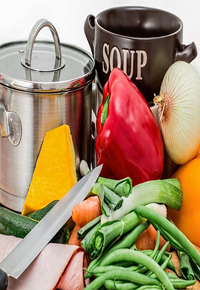
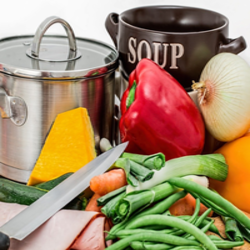
modif navbar + add footer

diff --git a/public/Css/navbar.css b/public/Css/navbar.css
@@ -1,16 +1,15 @@
-/* navbar-fixed-left */
 #navbar-custom{
-    background-color: #B5FFA0;
+    background-color: darkcyan;
+    padding-top: 8px;
 }
 a {
-    color: #489533;
     font-size: 17px;
 }
 a:hover{
     color: rgb(80, 80, 80);
 }
 #logo{
-    font-size: 45px;
+    font-size: 25px;
     padding-left: 28px;
 }
 
@@ -21,97 +20,14 @@ a:hover{
 .dropdown-item{
     font-size: 14px;
 }
-@media (max-width: 767px) {
-    .navbar-text {
-      margin-top: 15px;
-      margin-bottom: 15px;
-      padding-right: 15px;
-      padding-left: 15px;
-    }
-  }
-  
-  .navbar-fixed-left {
-      padding-top: 10px;
-      width: 260px;
-      position: fixed;
-      border-radius: 0;
-      height: 100%;
-      z-index: 1029;
-  }
-  
-  .navbar-fixed-left .navbar-nav {
-      float: left;
-      margin: 0;
-  }
-  
-  .navbar-fixed-left .navbar-nav > li {
-      float: none; 
-      width: 159px;
-  }
-  
-  .navbar-fixed-left .navbar-nav > li > a {
-      padding-top: 10px;
-      padding-bottom: 10px;
-      line-height: 20px;
-  } 
-  
-  .navbar-fixed-left .navbar-nav .open .dropdown-menu {
-      position: absolute;
-      float: left;
-      background-color: #fff;
-      min-width: 160px;
-      border: 1px solid #ccc;
-      border: 1px solid rgba(0, 0, 0, .15);
-      border-width: 0 1px 1px;
-      border-radius: 0 0 4px 4px;
-      -webkit-box-shadow: 0 6px 12px rgba(0, 0, 0, .175);
-              box-shadow: 0 6px 12px rgba(0, 0, 0, .175);
-  }
-  
-  /* set default padding container */
-  .navbar-fixed-left + .container,
-  .navbar-fixed-left + .container-fluid {
-      padding-left: 80px;
-  }
-  .app-main-content {
-      padding-top: 0px;
-      margin-left: 250px;
-      padding-top: 25px;
-  }
-  @media (max-width: 767px) {
-      .navbar-fixed-left {
-          width: 60px;
-      }
-  
-      .navbar-fixed-left + .container,
-      .navbar-fixed-left + .container-fluid {
-          padding-left: 80px;
-      }
-      .navbar-fixed-left .navbar-nav > li {
-          width: 59px;
-      }
-      .navbar-fixed-left .navbar-nav > li > .dropdown-menu {
-          margin-top: -30px;
-          margin-left: 50px;
-      }
-  }
 
-  /* navbar-fixed dropdown */
-  
-  @media (max-width: 767px) {
-    .navbar-fixed-left .navbar-nav .open .dropdown-menu > li > a {
-      color: #333;
-    }
-    .navbar-fixed-left .navbar-nav .open .dropdown-menu > li > a:hover,
-    .navbar-fixed-left .navbar-nav .open .dropdown-menu > li > a:focus {
-      color: #262626;
-      background-color: #f5f5f5;
-    }
-    .navbar-fixed-left .navbar-nav .open .dropdown-menu > .active > a,
-    .navbar-fixed-left .navbar-nav .open .dropdown-menu > .active > a:hover,
-    .navbar-fixed-left .navbar-nav .open .dropdown-menu > .active > a:focus {
-      color: #fff;
-      background-color: #337ab7;
-    }
-  
-  }
+.search{
+    color: black;
+    border-color: black;
+}
+
+.search:hover{
+    color: white;
+    border-color: black;
+    background-color: teal;
+}

diff --git a/public/Css/home.css b/public/Css/home.css
@@ -1,13 +1,12 @@
 img {
-    width: 200px;
-    height: 290px;
+    width: 250px;
+    height: 250px;
     border-radius: 5px 5px 0 0;
-
 }
 
 img:hover {
-    width: 240px;
-    height: 350px;
+    width: 290px;
+    height: 290px;
 }
 
 .card {
@@ -15,16 +14,16 @@ img:hover {
     transition: 0.3s;
     border-radius: 5px;
     display: inline-block;
-    width: 21%;
+    width: 25%;
     text-align: center;
 }
 
 .card:hover {
     box-shadow: 0 8px 16px 0 rgba(0, 0, 0, 0.2);
     display: inline-block;
-    width: 25%;
+    width: 30%;
 }
 
-.container {
-    padding: 2px 16px;
+.container{
+    text-align: center;
 }

diff --git a/public/Css/footer.css b/public/Css/footer.css
@@ -1,0 +1,17 @@
+.footer{
+    background-color: darkcyan;
+    margin-top: 25px;
+}
+
+.row{
+    margin-bottom: 10px;
+}
+
+.qsn{
+    font-size: 14px;
+    padding-top: 11px;
+}
+
+a{
+    color: lightcyan;
+}
